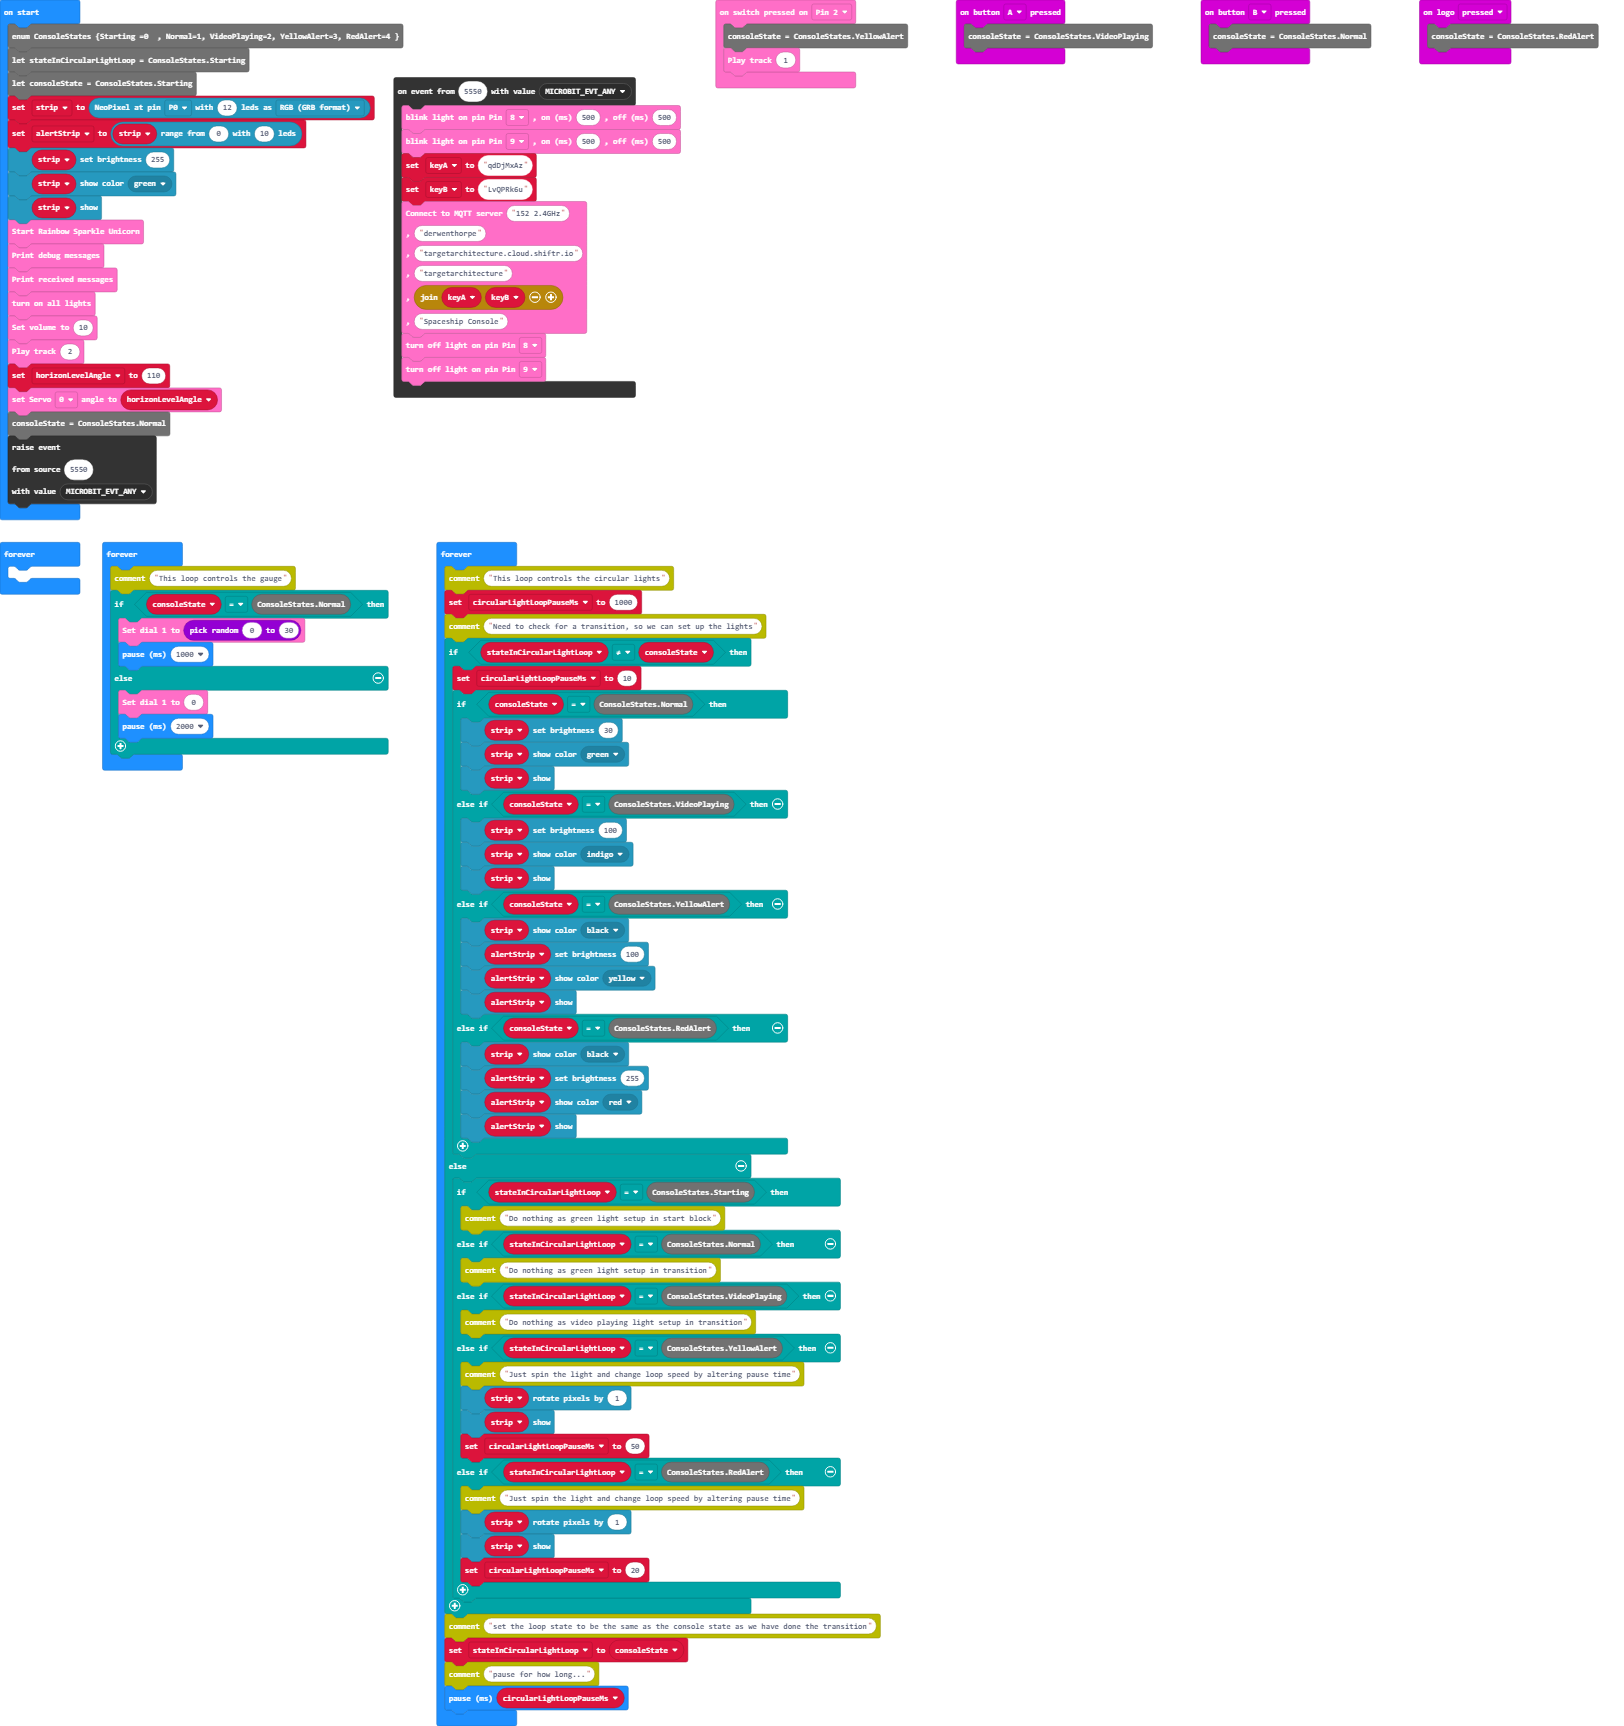
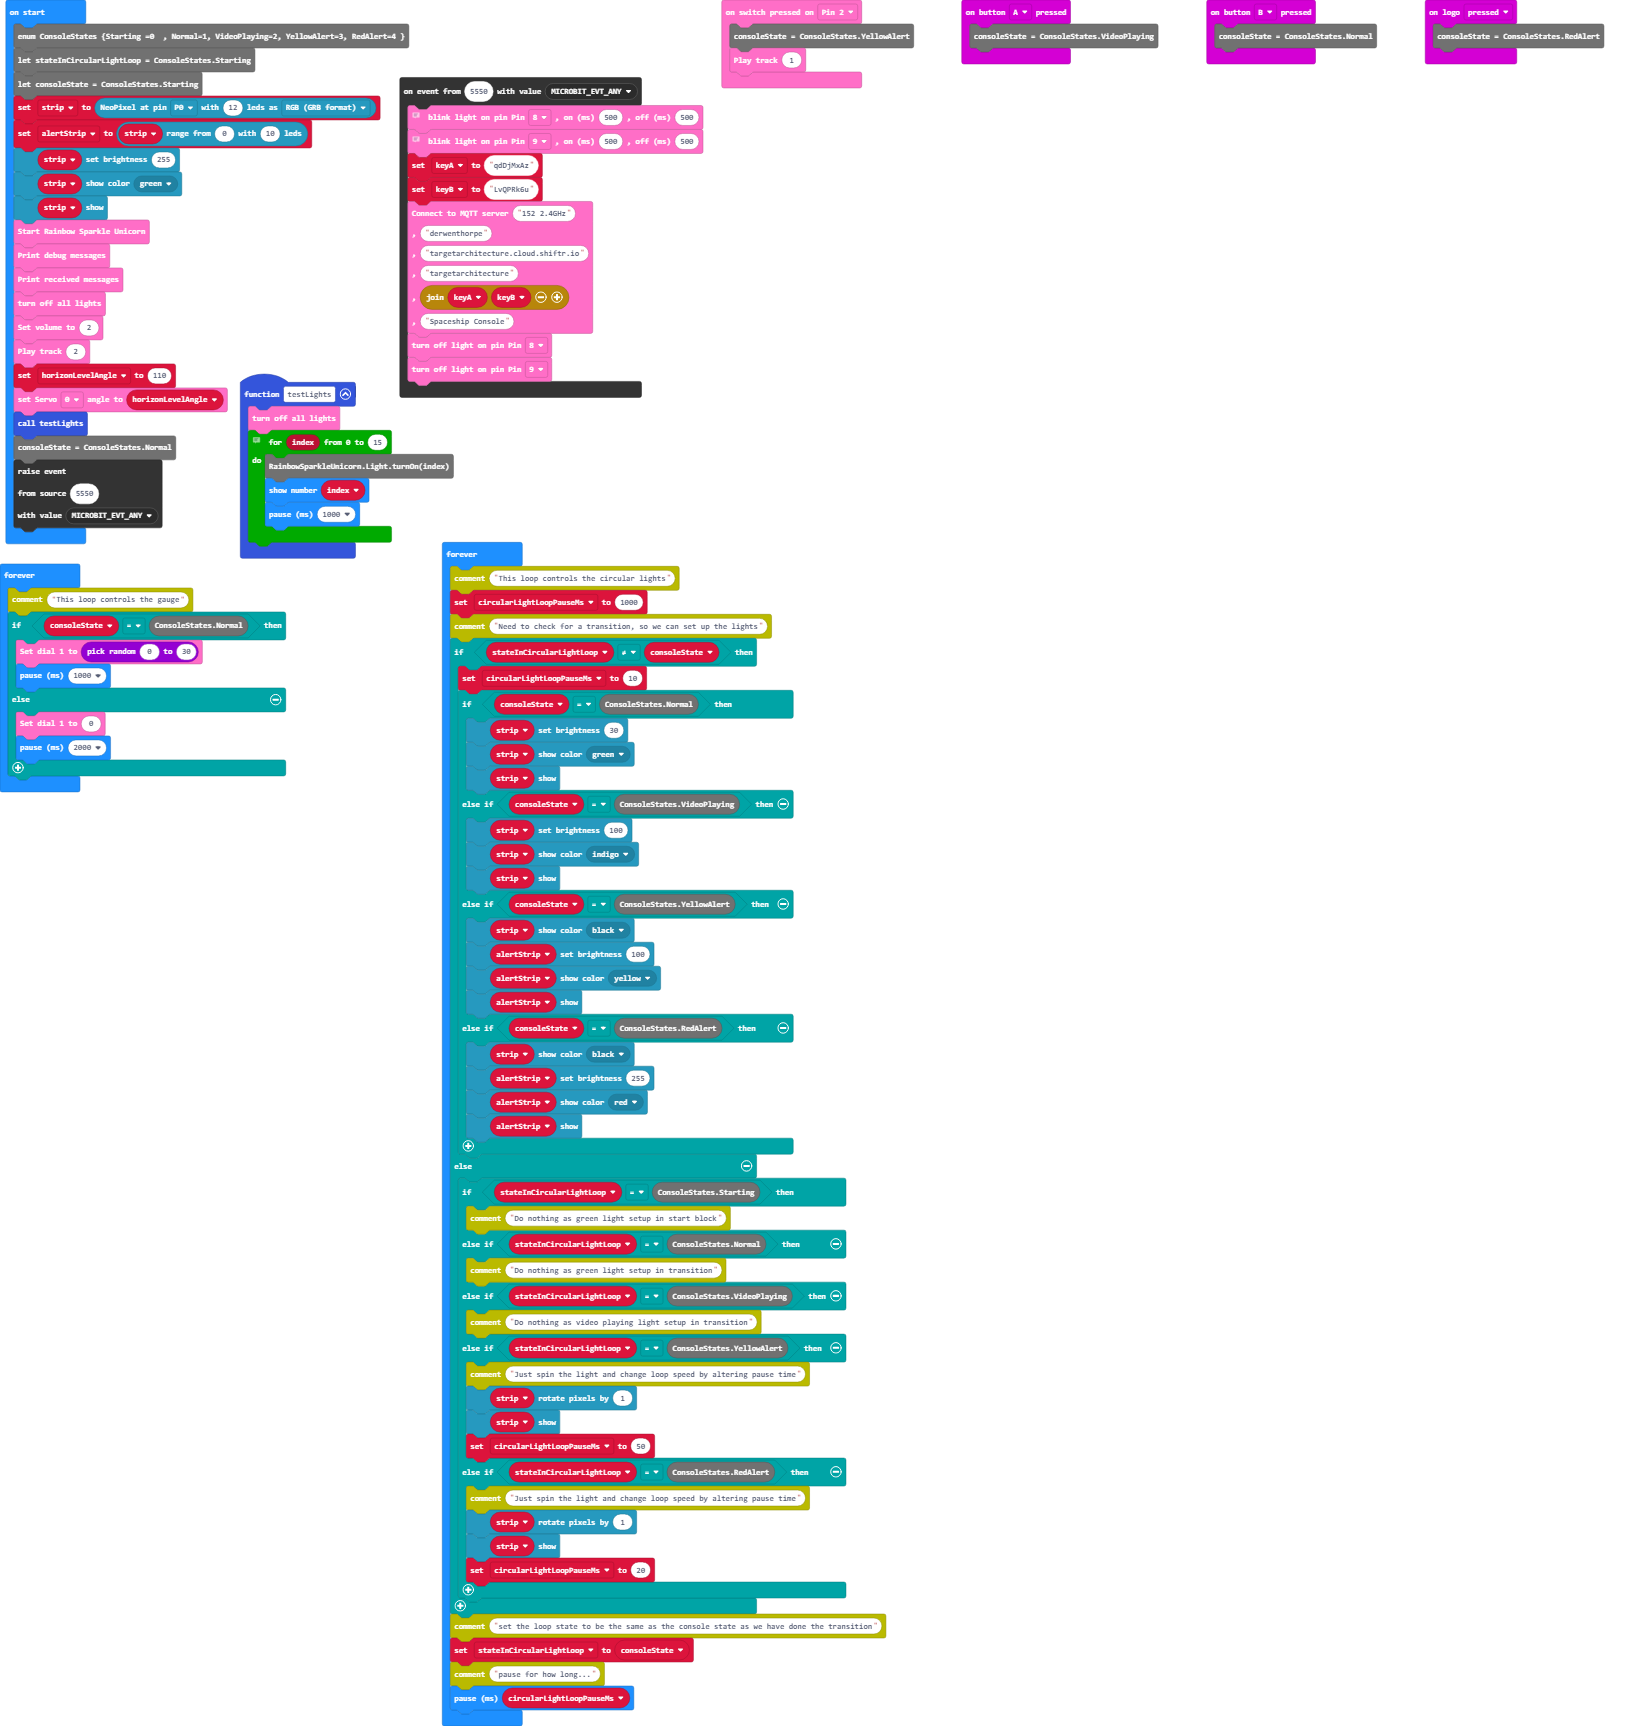
Update main.blocks, main.ts

diff --git a/main.ts b/main.ts
@@ -1,5 +1,7 @@
 control.onEvent(5550, EventBusValue.MICROBIT_EVT_ANY, function () {
+    // Pink Right Light
     RainbowSparkleUnicorn.Light.blink(lightPins.P8, 500, 500)
+    // Pink Left Light
     RainbowSparkleUnicorn.Light.blink(lightPins.P9, 500, 500)
     keyA = "qdDjMxAz"
     keyB = "LvQPRk6u"
@@ -21,6 +23,17 @@ RainbowSparkleUnicorn.Sound.playTrack(1)
 input.onButtonPressed(Button.A, function () {
     consoleState = ConsoleStates.VideoPlaying
 })
+function testLights () {
+    RainbowSparkleUnicorn.Light.turnAllOff()
+    // if (index == 0) {
+    // RainbowSparkleUnicorn.Light.turnOn(lightPins.P0)
+    // } else if (consoleState == ConsoleStates.VideoPlaying) {
+    for (let index = 0; index <= 15; index++) {
+        RainbowSparkleUnicorn.Light.turnOn(index)
+basic.showNumber(index)
+        basic.pause(1000)
+    }
+}
 input.onButtonPressed(Button.B, function () {
     consoleState = ConsoleStates.Normal
 })
@@ -41,19 +54,17 @@ strip.show()
 RainbowSparkleUnicorn.start()
 RainbowSparkleUnicorn.printDebugMessages()
 RainbowSparkleUnicorn.printReceivedMessages()
-RainbowSparkleUnicorn.Light.turnAllOn()
-RainbowSparkleUnicorn.Sound.setVolume(10)
+RainbowSparkleUnicorn.Light.turnAllOff()
+RainbowSparkleUnicorn.Sound.setVolume(2)
 RainbowSparkleUnicorn.Sound.playTrack(2)
 let horizonLevelAngle = 110
 RainbowSparkleUnicorn.Movement.setServoAngle(Servo.P0, horizonLevelAngle)
+testLights()
 consoleState = ConsoleStates.Normal
 control.raiseEvent(
 5550,
 EventBusValue.MICROBIT_EVT_ANY
 )
-basic.forever(function () {
-	
-})
 basic.forever(function () {
     comment.comment("This loop controls the gauge")
     if (consoleState == ConsoleStates.Normal) {
